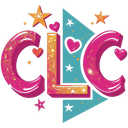
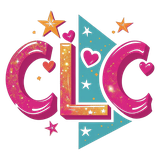
Use larger colorful CLC monogram in the site header.

Changed region(s): [[0.0, 0.0312, 1.0, 0.9688], [0.1875, 0.4688, 0.2812, 0.5312]]

diff --git a/docs/css/main.css b/docs/css/main.css
@@ -61,7 +61,7 @@ em {
   align-items: center;
   justify-content: space-between;
   gap: 1.5rem;
-  padding: 1.2rem clamp(1.25rem, 4vw, 3rem);
+  padding: 0.85rem clamp(1.25rem, 4vw, 3rem);
   background: rgba(247, 241, 235, 0.88);
   backdrop-filter: blur(8px);
   border-bottom: 1px solid var(--line-gold);
@@ -81,12 +81,11 @@ em {
 }
 
 .logo-mark {
-  width: 2rem;
-  height: 2rem;
-  border-radius: 50%;
-  object-fit: cover;
+  width: 3.5rem;
+  height: 3.5rem;
+  border-radius: 0;
+  object-fit: contain;
   flex-shrink: 0;
-  box-shadow: 0 0 0 1px rgba(200, 145, 45, 0.35);
 }
 
 .nav {

diff --git a/preview/css/main.css b/preview/css/main.css
@@ -61,7 +61,7 @@ em {
   align-items: center;
   justify-content: space-between;
   gap: 1.5rem;
-  padding: 1.2rem clamp(1.25rem, 4vw, 3rem);
+  padding: 0.85rem clamp(1.25rem, 4vw, 3rem);
   background: rgba(247, 241, 235, 0.88);
   backdrop-filter: blur(8px);
   border-bottom: 1px solid var(--line-gold);
@@ -81,12 +81,11 @@ em {
 }
 
 .logo-mark {
-  width: 2rem;
-  height: 2rem;
-  border-radius: 50%;
-  object-fit: cover;
+  width: 3.5rem;
+  height: 3.5rem;
+  border-radius: 0;
+  object-fit: contain;
   flex-shrink: 0;
-  box-shadow: 0 0 0 1px rgba(200, 145, 45, 0.35);
 }
 
 .nav {

diff --git a/theme/jennifer-eddings/assets/css/main.css b/theme/jennifer-eddings/assets/css/main.css
@@ -61,7 +61,7 @@ em {
   align-items: center;
   justify-content: space-between;
   gap: 1.5rem;
-  padding: 1.2rem clamp(1.25rem, 4vw, 3rem);
+  padding: 0.85rem clamp(1.25rem, 4vw, 3rem);
   background: rgba(247, 241, 235, 0.88);
   backdrop-filter: blur(8px);
   border-bottom: 1px solid var(--line-gold);
@@ -81,12 +81,11 @@ em {
 }
 
 .logo-mark {
-  width: 2rem;
-  height: 2rem;
-  border-radius: 50%;
-  object-fit: cover;
+  width: 3.5rem;
+  height: 3.5rem;
+  border-radius: 0;
+  object-fit: contain;
   flex-shrink: 0;
-  box-shadow: 0 0 0 1px rgba(200, 145, 45, 0.35);
 }
 
 .nav {

diff --git a/docs/index.html b/docs/index.html
@@ -14,7 +14,7 @@
 <body>
   <header class="site-header">
     <a class="logo" href="#">
-      <img class="logo-mark" src="images/clc-badge.png" alt="" width="32" height="32">
+      <img class="logo-mark" src="images/clc-mark.png" alt="Call Light Collective" width="56" height="56">
       <span>Jennifer Eddings</span>
     </a>
     <nav class="nav" aria-label="Primary">

diff --git a/preview/index.html b/preview/index.html
@@ -14,7 +14,7 @@
 <body>
   <header class="site-header">
     <a class="logo" href="#">
-      <img class="logo-mark" src="images/clc-badge.png" alt="" width="32" height="32">
+      <img class="logo-mark" src="images/clc-mark.png" alt="Call Light Collective" width="56" height="56">
       <span>Jennifer Eddings</span>
     </a>
     <nav class="nav" aria-label="Primary">

diff --git a/theme/jennifer-eddings/header.php b/theme/jennifer-eddings/header.php
@@ -16,7 +16,7 @@
 <?php wp_body_open(); ?>
 <header class="site-header">
 	<a class="logo" href="<?php echo esc_url( home_url( '/' ) ); ?>">
-		<img class="logo-mark" src="<?php echo esc_url( get_template_directory_uri() . '/assets/images/clc-badge.png' ); ?>" alt="" width="32" height="32">
+		<img class="logo-mark" src="<?php echo esc_url( get_template_directory_uri() . '/assets/images/clc-mark.png' ); ?>" alt="<?php esc_attr_e( 'Call Light Collective', 'jennifer-eddings' ); ?>" width="56" height="56">
 		<span>Jennifer Eddings</span>
 	</a>
 	<nav class="nav" aria-label="<?php esc_attr_e( 'Primary', 'jennifer-eddings' ); ?>">